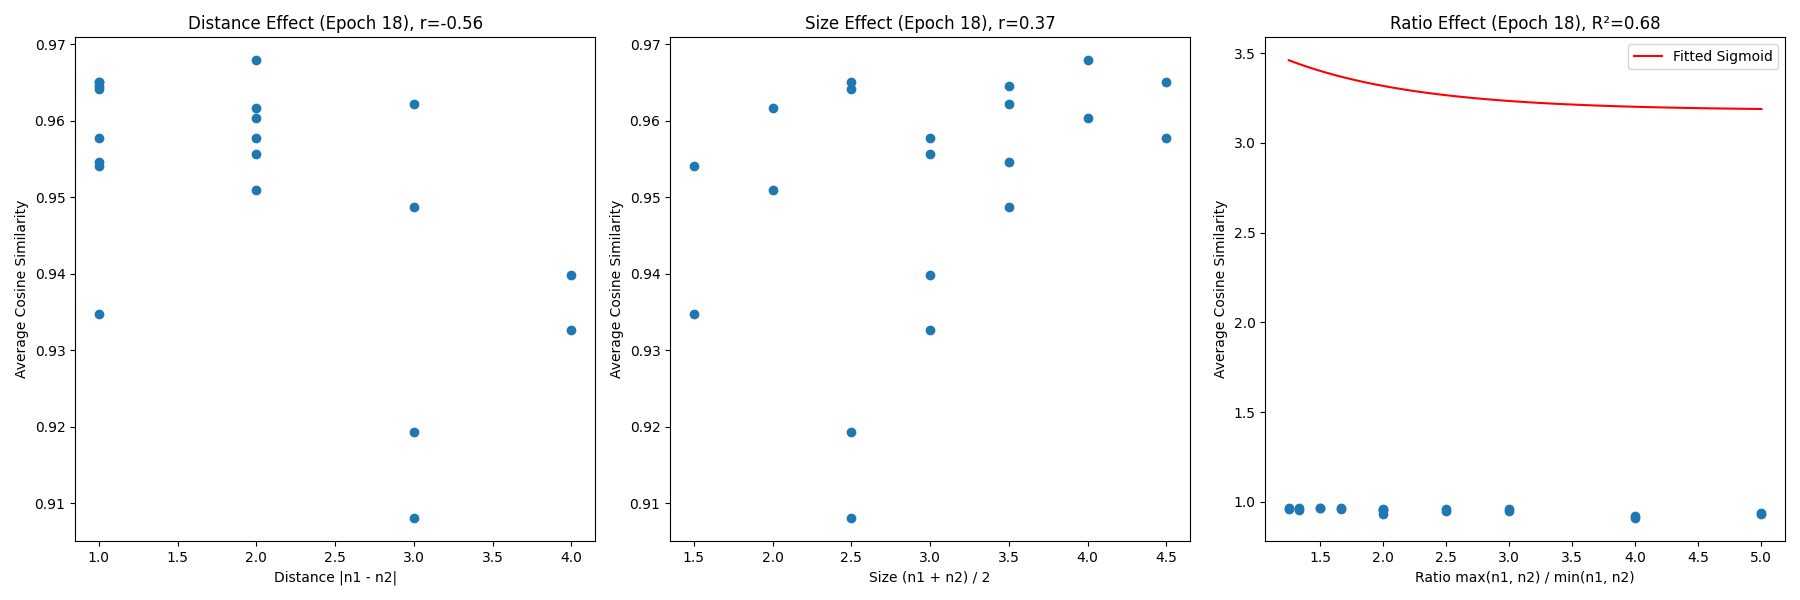
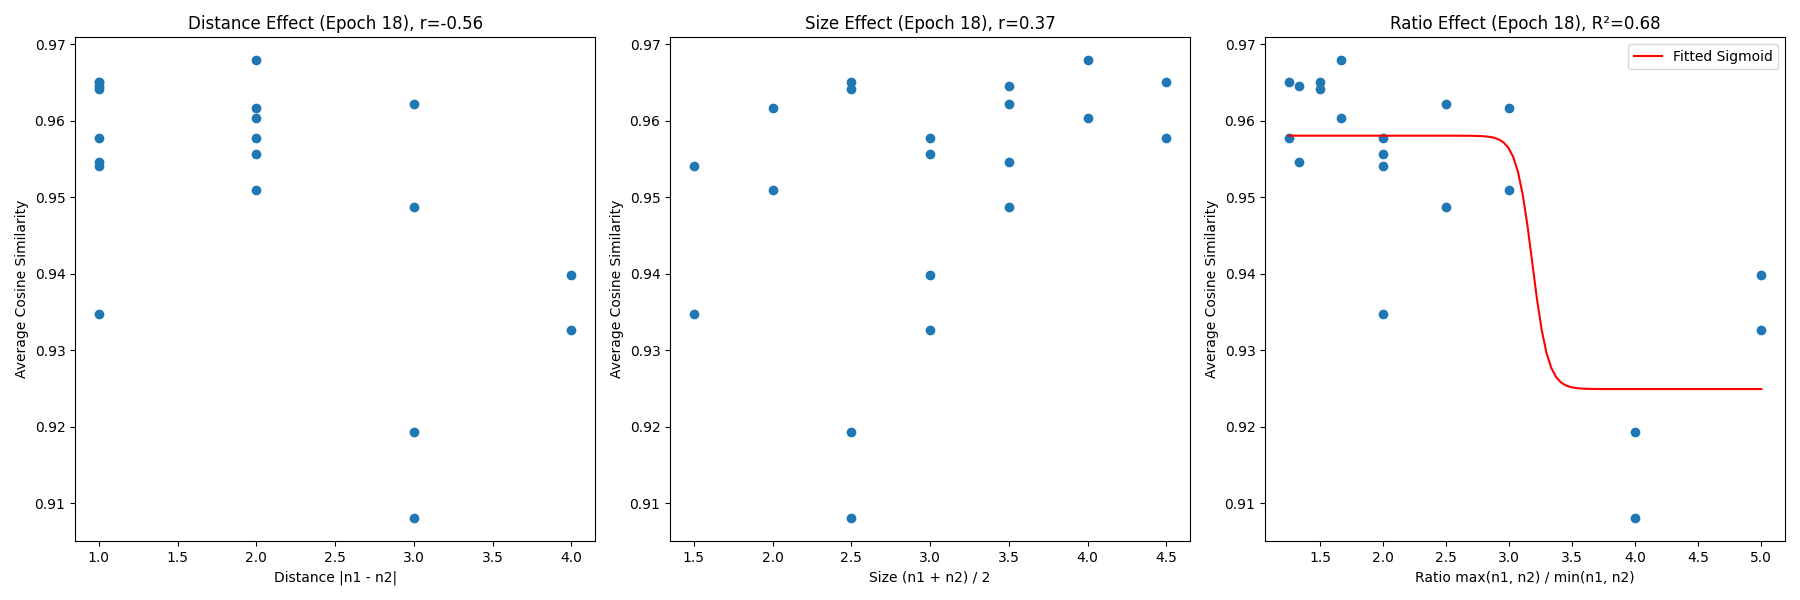
fix sigmoid

diff --git a/effects_equal-circles_sigmoid/effects.py b/effects_equal-circles_sigmoid/effects.py
@@ -34,10 +34,6 @@ def calculate_effects(results):
     )
 
 
-def sigmoid_function(x, lower, upper, inflection, rate):
-    return lower + (-lower + upper) / (1 + np.exp((inflection - x) / rate))
-
-
 # --- Plotting and correlation functions ---
 def plot_effects(
     distances,
@@ -67,17 +63,19 @@ def plot_effects(
     # Ratio Effect
     try:
         popt, _ = scipy.optimize.curve_fit(
-            sigmoid_function,
+            lambda x, a, b, c, d: c / (1 + np.exp(-(x - b) / a)) + d,
             ratios,
             similarities_ratio,
             p0=[0.5, 1.0, 1.5, 1.0],
         )  # Fit exponential
-        y_pred = sigmoid_function(np.array(ratios), *popt)
+        y_pred = (
+            popt[2] / (1 + np.exp(-(np.array(ratios) - popt[1]) / popt[0])) + popt[3]
+        )
         r2 = r2_score(similarities_ratio, y_pred)
 
         axes[2].scatter(ratios, similarities_ratio)
         x_fit = np.linspace(min(ratios), max(ratios), 100)
-        y_fit = popt[0] * np.exp(-popt[1] * x_fit) + popt[2]
+        y_fit = popt[2] / (1 + np.exp(-(x_fit - popt[1]) / popt[0])) + popt[3]
         axes[2].plot(x_fit, y_fit, "r-", label="Fitted Sigmoid")  # Plot fitted line
 
         axes[2].set_xlabel("Ratio max(n1, n2) / min(n1, n2)")
